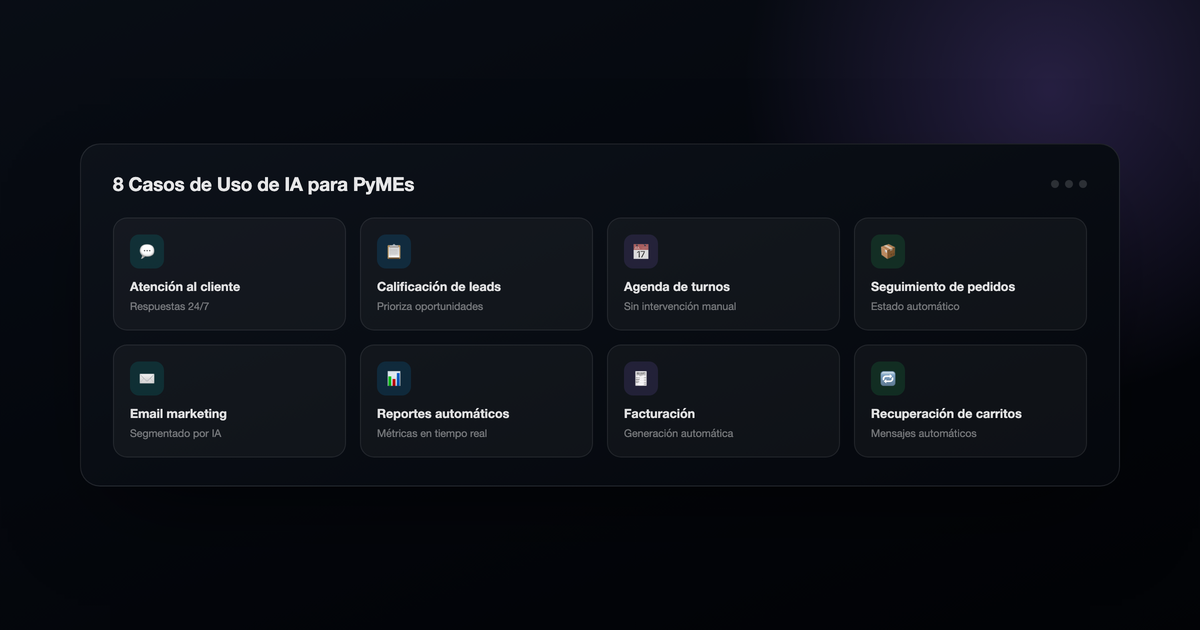
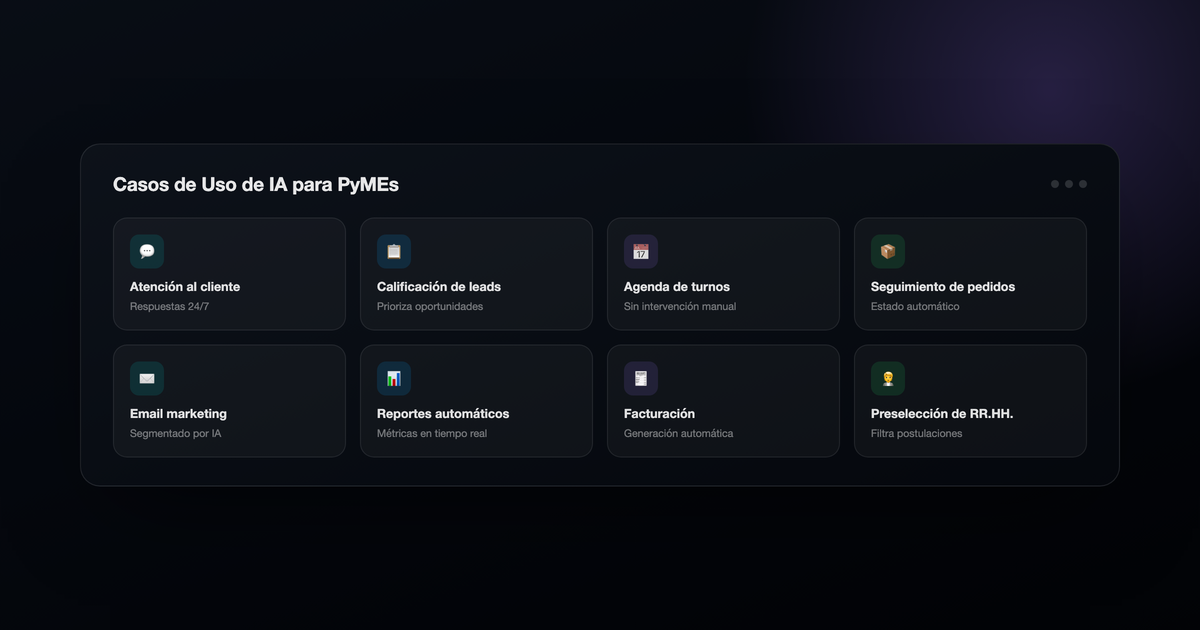
Rewrite the PyMEs automation post into a comprehensive, linked pillar piece
Replaced the flat 8-item list with 13 use cases organized into five
business-area sections (sales, customer service, operations, marketing,
HR), added a definition-first opener and pricing/no-code-vs-custom
sections, expanded the FAQ from 4 to 7 questions, and linked out to the
specific solutions and case studies (ALORA CRM, LIDIA, Autodux) that
back up each claim instead of leaving them abstract. Kept the same slug
and topic rather than publishing a separate post, to avoid competing
with itself for the same searches.

Updated the cover image mockup, which still said "8 Casos de Uso," and
added the post to llms.txt alongside the other flagship articles.

Changed region(s): [[0.0925, 0.2714, 0.3392, 0.3016], [0.7092, 0.6333, 0.8633, 0.6937]]

diff --git a/src/lib/blog-data.ts b/src/lib/blog-data.ts
@@ -1170,20 +1170,24 @@ Want to see how it would work in a clinic like yours? At ALORA we can run a live
   {
     slug: "automatizacion-ia-pymes-casos",
     title: {
-      es: "Automatización con IA para PyMEs: 8 casos de uso reales con impacto medible",
-      en: "AI automation for small businesses: 8 real use cases with measurable impact",
+      es: "Casos de uso de IA en PyMEs: automatización real por área de negocio, con resultados medibles",
+      en: "AI Use Cases for Small Businesses: Real Automation by Business Area, with Measurable Results",
     },
     excerpt: {
-      es: "Casos de uso concretos de automatización con inteligencia artificial para pequeñas y medianas empresas: qué procesos automatizar primero, qué herramientas usar y qué resultados esperar sin ser técnico.",
-      en: "Concrete AI automation use cases for small and medium businesses: which processes to automate first, which tools to use, and what results to expect — no technical background required.",
+      es: "Más de 12 casos de uso reales de inteligencia artificial en PyMEs, organizados por área de negocio: ventas, atención al cliente, operaciones, marketing y RR.HH. Qué automatizar primero, con qué herramientas y qué resultados esperar.",
+      en: "12+ real AI use cases for small businesses, organized by business area: sales, customer service, operations, marketing and HR. What to automate first, which tools to use, and what results to expect.",
     },
-    date: "2026-05-22",
+    date: "2026-07-18",
     category: { es: "Automatización", en: "Automation" },
-    readTime: 9,
+    readTime: 14,
     image: "/images/blog/automatizacion-ia-pymes-casos.png",
-    relatedSlugs: ["automatizacion-empresas-make", "ia-automatizacion-negocios", "mi-empresa-necesita-inteligencia-artificial"],
+    relatedSlugs: ["automatizacion-empresas-make", "que-es-un-crm-y-por-que-lo-necesita-tu-empresa", "mi-empresa-necesita-inteligencia-artificial"],
     content: {
       es: `
+## ¿Qué es la inteligencia artificial aplicada a una PyME?
+
+Aplicar IA en una PyME significa usar herramientas que leen, deciden y actúan sobre información real del negocio sin que una persona tenga que hacerlo a mano: calificar un lead, responder una consulta, cargar una factura o recordar un turno. No es un proyecto de innovación aislado. Es reemplazar tareas repetitivas por flujos que corren solos, las 24 horas, mientras tu equipo se dedica a lo que realmente requiere criterio humano.
+
 ## El problema que frena a las PyMEs para crecer
 
 La mayoría de las PyMEs no tienen un problema de demanda. Tienen un problema de capacidad de respuesta.
@@ -1204,23 +1208,51 @@ Lo que sí necesitás:
 
 Lo que no necesitás: un equipo de IT, saber código ni presupuesto enterprise.
 
-## 8 casos de automatización con resultados medibles
+## Casos de uso de IA en PyMEs, organizados por área de negocio
+
+Estos son los procesos donde la IA genera resultado más rápido en una PyME, agrupados por el área que los sufre. Elegí el tuyo y empezá por ahí — no hace falta automatizar todo a la vez.
+
+### Ventas y captación de leads
 
 1. **Calificación automática de leads.** Cuando un formulario de contacto se completa, una IA evalúa el mensaje, clasifica al lead (interesado, urgente, no calificado) y lo asigna al comercial correcto. Resultado típico: reducción del 40% en el tiempo de respuesta comercial.
 
 2. **Seguimiento automático de presupuestos.** Tras enviar una cotización, un flujo automático envía recordatorios por WhatsApp o email en los días 2, 5 y 10. Resultado típico: aumento del 25% en la tasa de cierre por seguimiento oportuno.
 
-3. **Respuesta automática a consultas frecuentes.** Un agente de IA entrenado con el conocimiento del negocio responde preguntas de precios, disponibilidad y proceso de compra 24/7. Resultado típico: 60-70% de consultas resueltas sin intervención humana.
+3. **Priorización de la base de contactos.** La IA analiza el historial de cada lead (última interacción, tamaño de negocio, urgencia del mensaje) y ordena a quién contactar primero, en vez de repartir el tiempo comercial en partes iguales. Es el mismo principio que usamos para construir [ALORA CRM](/es/casos-de-exito/alora-crm), nuestro propio CRM con pipeline 100% automatizado.
 
-4. **Confirmación y recordatorio de turnos.** El sistema agenda automáticamente, envía confirmación inmediata y recuerda la cita 24 horas antes por WhatsApp. Resultado típico: reducción del 30-40% en ausentismo.
+### Atención al cliente
 
-5. **Extracción de datos de documentos.** Facturas, contratos o presupuestos de proveedores se procesan automáticamente: la IA extrae los datos clave y los carga en el sistema de gestión. Resultado típico: ahorro de 5-10 horas semanales en carga manual.
+4. **Respuesta automática a consultas frecuentes, 24/7.** Un [agente de IA](/es/soluciones/atencion-cliente-ia) entrenado con el conocimiento del negocio responde preguntas de precios, disponibilidad y proceso de compra en cualquier horario. Resultado típico: 60-70% de consultas resueltas sin intervención humana.
 
-6. **Gestión asistida de redes sociales.** El sistema monitorea menciones, clasifica comentarios y genera borradores de respuesta para que un humano solo apruebe. Resultado típico: reducción del 50% en el tiempo dedicado a redes.
+5. **Confirmación y recordatorio de turnos.** El sistema agenda automáticamente, envía confirmación inmediata y recuerda la cita 24 horas antes por WhatsApp. Resultado típico: reducción del 30-40% en ausentismo — el mismo mecanismo que usa [LIDIA](/es/casos-de-exito/soy-lidia) en consultorios de salud.
 
-7. **Informes y reportes automáticos.** Cada lunes a las 8 AM llega un resumen automático con métricas clave del negocio extraídas de CRM, ventas y atención. Resultado típico: decisiones basadas en datos sin horas de preparación manual.
+6. **Escalamiento inteligente a un humano.** Cuando la IA detecta que la consulta requiere criterio (un reclamo, una negociación, un caso atípico) deriva automáticamente a una persona con todo el contexto de la conversación ya cargado, en vez de hacer que el cliente repita todo desde cero.
 
-8. **Onboarding automático de nuevos clientes.** Cuando un cliente firma o compra, el sistema activa una secuencia automática: bienvenida, documentación necesaria, primer contacto de seguimiento. Resultado típico: experiencia consistente sin depender de que alguien lo recuerde.
+### Operaciones y administración
+
+7. **Extracción de datos de documentos.** Facturas, contratos o presupuestos de proveedores se procesan automáticamente: la IA extrae los datos clave y los carga en el sistema de gestión. Resultado típico: ahorro de 5-10 horas semanales en carga manual.
+
+8. **Informes y reportes automáticos.** Cada lunes a las 8 AM llega un resumen automático con métricas clave del negocio extraídas de CRM, ventas y atención. Resultado típico: decisiones basadas en datos sin horas de preparación manual.
+
+9. **Control de stock y alertas de reposición.** La IA cruza ventas históricas con el stock actual y avisa cuándo reponer, antes de quedarse sin producto — sin depender de que alguien revise una planilla todos los días.
+
+### Marketing y contenido
+
+10. **Gestión asistida de redes sociales.** El sistema monitorea menciones, clasifica comentarios y genera borradores de respuesta para que un humano solo apruebe. Resultado típico: reducción del 50% en el tiempo dedicado a redes.
+
+11. **Primeras versiones de contenido.** La IA arma un borrador de posteos, newsletters o descripciones de producto a partir de la guía de marca, y una persona edita y aprueba. Reduce el tiempo de arranque — no reemplaza la mirada editorial.
+
+### Recursos Humanos
+
+12. **Preselección de candidatos.** La IA filtra postulaciones según los requisitos del puesto y arma un resumen comparativo, para que RR.HH. entreviste solo a quienes tienen sentido para la búsqueda.
+
+13. **Onboarding automático.** Cuando un cliente firma, compra, o un empleado se suma al equipo, el sistema activa una secuencia automática: bienvenida, documentación necesaria, primer contacto de seguimiento. Resultado típico: una experiencia consistente que no depende de que alguien se acuerde de hacerlo.
+
+## Cuánto cuesta automatizar un proceso con IA
+
+No hay un número único — depende de tres variables: cuántos sistemas hay que conectar, si el flujo es lineal o tiene ramificaciones y decisiones, y si alcanza con una herramienta no-code o hace falta lógica a medida. Una automatización simple (un formulario que dispara un mensaje y una notificación) se resuelve en días. Un flujo con IA que clasifica, decide y actualiza varios sistemas a la vez lleva semanas de configuración y ajuste.
+
+La forma más rápida de saberlo es mirar el proceso concreto, no una tabla de precios genérica — por eso en ALORA arrancamos siempre con un diagnóstico gratuito antes de cotizar cualquier cosa.
 
 ## Las herramientas que más se usan en PyMEs
 
@@ -1230,22 +1262,34 @@ Lo que no necesitás: un equipo de IT, saber código ni presupuesto enterprise.
 
 Las tres se conectan con WhatsApp Business API, Gmail, Google Sheets, HubSpot, Salesforce, Notion, Slack y cientos de otras aplicaciones.
 
-## El error más común: automatizar sin documentar primero
+## No-code vs. desarrollo a medida: cuándo cada uno alcanza
 
-Antes de automatizar un proceso, documentalo. Si no podés describir exactamente qué decisión se toma en cada paso, ninguna herramienta de IA podrá replicarlo. La IA ejecuta bien — pero necesita instrucciones claras.
+Make, n8n y Zapier resuelven la mayoría de los casos de este artículo. Pero hay un punto en el que dejan de alcanzar: cuando el proceso necesita lógica propia, una base de datos a medida, o un panel donde tu equipo gestione todo sin depender de una herramienta externa. Ahí tiene sentido pasar a [desarrollo de software a medida](/es/soluciones/desarrollo-software) o una [aplicación web propia](/es/soluciones/aplicaciones-web) — como en [Autodux](/es/casos-de-exito/autodux), donde la gestión de publicaciones y el contacto por WhatsApp necesitaban vivir dentro de una plataforma propia, no de un flujo conectado por fuera.
 
-El proceso correcto:
+## Errores comunes al automatizar (y cómo evitarlos)
 
-1. Elegir el proceso más repetitivo y costoso en tiempo.
+**Automatizar sin documentar primero.** Si no podés describir exactamente qué decisión se toma en cada paso del proceso, ninguna herramienta de IA podrá replicarlo. La IA ejecuta bien — pero necesita instrucciones claras.
+
+**Automatizar un proceso que ya está roto.** Automatizar el caos solo lo hace más rápido. Primero se ordena el proceso, después se automatiza.
+
+**No dejar a nadie a cargo del monitoreo.** Todo flujo automático necesita un dueño humano que revise que sigue funcionando. Sin monitoreo, un error silencioso puede pasar semanas sin detectarse.
+
+## Cómo empezar, paso a paso
+
+1. Elegir el proceso más repetitivo y costoso en tiempo — no necesariamente el más importante del negocio.
 2. Documentar el flujo actual: qué entra, qué sale, qué decisiones se toman.
 3. Identificar qué parte requiere criterio humano y qué parte es siempre igual.
 4. Automatizar la parte predecible primero.
 5. Medir resultados durante 30 días.
 6. Expandir a otros procesos.
 
-¿Querés saber qué procesos de tu negocio podés automatizar primero? En ALORA hacemos el diagnóstico inicial sin costo. Revisamos tu operación, identificamos los procesos con mayor potencial de [automatización](/es/soluciones/aplicaciones-web) y te mostramos exactamente qué se puede hacer, con qué herramientas y en cuánto tiempo. [Agendá una llamada gratuita](/es/contacto) de 20 minutos.
+¿Querés saber qué procesos de tu negocio podés automatizar primero? En ALORA hacemos el diagnóstico inicial sin costo. Revisamos tu operación, identificamos los procesos con mayor potencial de [automatización](/es/soluciones/aplicaciones-web) y te mostramos exactamente qué se puede hacer, con qué herramientas y en cuánto tiempo — y si el proceso lo pide, también lo construimos a medida. [Agendá una llamada gratuita](/es/contacto) de 20 minutos.
       `,
       en: `
+## What does "AI for small businesses" actually mean?
+
+Applying AI in a small business means using tools that read, decide and act on real business information without a person doing it by hand: scoring a lead, answering an inquiry, processing an invoice, or remembering an appointment. It isn't an isolated innovation project. It's replacing repetitive tasks with flows that run on their own, around the clock, while your team focuses on what actually requires human judgment.
+
 ## The problem holding small businesses back from growing
 
 Most small businesses don't have a demand problem. They have a response-capacity problem.
@@ -1266,23 +1310,51 @@ What you do need:
 
 What you don't need: an IT team, coding knowledge, or an enterprise budget.
 
-## 8 automation cases with measurable results
+## AI use cases for small businesses, by business area
+
+These are the processes where AI delivers results fastest in a small business, grouped by the area that feels the pain. Pick yours and start there — you don't need to automate everything at once.
+
+### Sales and lead generation
 
 1. **Automatic lead scoring.** When a contact form is submitted, an AI evaluates the message, classifies the lead (interested, urgent, unqualified), and assigns it to the right salesperson. Typical result: 40% reduction in sales response time.
 
 2. **Automatic quote follow-up.** After sending a quote, an automated flow sends reminders via WhatsApp or email on days 2, 5, and 10. Typical result: 25% increase in close rate thanks to timely follow-up.
 
-3. **Automatic responses to frequent inquiries.** An AI agent trained on the business's knowledge answers questions about pricing, availability, and the purchase process 24/7. Typical result: 60-70% of inquiries resolved without human intervention.
+3. **Prioritizing your contact base.** AI analyzes each lead's history (last interaction, business size, urgency of the message) and ranks who to contact first, instead of splitting sales time evenly. It's the same principle behind [ALORA CRM](/en/casos-de-exito/alora-crm), our own CRM with a fully automated pipeline.
 
-4. **Appointment confirmation and reminders.** The system schedules automatically, sends immediate confirmation, and reminds the patient or customer 24 hours before via WhatsApp. Typical result: 30-40% reduction in no-shows.
+### Customer service
 
-5. **Document data extraction.** Invoices, contracts, or supplier quotes are processed automatically: the AI extracts key data and loads it into the management system. Typical result: 5-10 hours saved weekly on manual data entry.
+4. **Automatic responses to frequent inquiries, 24/7.** An [AI agent](/en/soluciones/atencion-cliente-ia) trained on the business's knowledge answers questions about pricing, availability, and the purchase process at any hour. Typical result: 60-70% of inquiries resolved without human intervention.
 
-6. **Assisted social media management.** The system monitors mentions, classifies comments, and generates draft responses for a human to simply approve. Typical result: 50% reduction in time spent on social media.
+5. **Appointment confirmation and reminders.** The system schedules automatically, sends immediate confirmation, and reminds the customer 24 hours before via WhatsApp. Typical result: 30-40% reduction in no-shows — the same mechanism [LIDIA](/en/casos-de-exito/soy-lidia) uses in health clinics.
 
-7. **Automatic reports.** Every Monday at 8 AM, an automatic summary arrives with key business metrics pulled from CRM, sales, and support data. Typical result: data-driven decisions without hours of manual preparation.
+6. **Smart hand-off to a human.** When the AI detects the inquiry needs judgment (a complaint, a negotiation, an edge case), it automatically routes it to a person with the full conversation context already loaded, instead of making the customer start over.
 
-8. **Automatic new customer onboarding.** When a customer signs or purchases, the system triggers an automatic sequence: welcome message, required documentation, first follow-up contact. Typical result: a consistent experience that doesn't depend on someone remembering to do it.
+### Operations and admin
+
+7. **Document data extraction.** Invoices, contracts, or supplier quotes are processed automatically: the AI extracts key data and loads it into the management system. Typical result: 5-10 hours saved weekly on manual data entry.
+
+8. **Automatic reports.** Every Monday at 8 AM, an automatic summary arrives with key business metrics pulled from CRM, sales, and support data. Typical result: data-driven decisions without hours of manual preparation.
+
+9. **Stock control and restock alerts.** AI cross-references sales history with current stock and flags when to reorder, before you run out — without depending on someone checking a spreadsheet every day.
+
+### Marketing and content
+
+10. **Assisted social media management.** The system monitors mentions, classifies comments, and generates draft responses for a human to simply approve. Typical result: 50% reduction in time spent on social media.
+
+11. **First drafts of content.** AI drafts social posts, newsletters, or product descriptions from a brand guide, and a person edits and approves. It cuts down on start-up time — it doesn't replace editorial judgment.
+
+### Human resources
+
+12. **Candidate pre-screening.** AI filters applications against the role's requirements and builds a comparison summary, so HR only interviews candidates who actually fit.
+
+13. **Automatic onboarding.** When a customer signs, buys, or a new employee joins the team, the system triggers an automatic sequence: welcome message, required documentation, first follow-up contact. Typical result: a consistent experience that doesn't depend on someone remembering to do it.
+
+## How much does it cost to automate a process with AI?
+
+There's no single number — it depends on three variables: how many systems need to connect, whether the flow is linear or has branching decisions, and whether a no-code tool is enough or the process needs custom logic. A simple automation (a form that triggers a message and a notification) can be done in days. A flow where AI classifies, decides, and updates several systems at once takes weeks of setup and tuning.
+
+The fastest way to know is to look at the actual process, not a generic price table — which is why at ALORA we always start with a free assessment before quoting anything.
 
 ## The tools most used by small businesses
 
@@ -1292,20 +1364,28 @@ What you don't need: an IT team, coding knowledge, or an enterprise budget.
 
 All three connect with WhatsApp Business API, Gmail, Google Sheets, HubSpot, Salesforce, Notion, Slack, and hundreds of other applications.
 
-## The most common mistake: automating without documenting first
+## No-code vs. custom development: when each one makes sense
 
-Before automating a process, document it. If you can't describe exactly what decision gets made at each step, no AI tool will be able to replicate it. AI executes well — but it needs clear instructions.
+Make, n8n, and Zapier solve most of the cases in this article. But there's a point where they stop being enough: when the process needs its own logic, a custom database, or a panel where your team manages everything without depending on an external tool. That's when it makes sense to move to [custom software development](/en/soluciones/desarrollo-software) or a [proprietary web application](/en/soluciones/aplicaciones-web) — like [Autodux](/en/casos-de-exito/autodux), where managing listings and WhatsApp contact needed to live inside its own platform, not a flow connected from outside.
 
-The correct process:
+## Common automation mistakes (and how to avoid them)
 
-1. Choose the most repetitive, time-costly process.
+**Automating without documenting first.** If you can't describe exactly what decision gets made at each step of the process, no AI tool will be able to replicate it. AI executes well — but it needs clear instructions.
+
+**Automating a process that's already broken.** Automating chaos just makes it faster. Fix the process first, then automate it.
+
+**Not putting anyone in charge of monitoring.** Every automated flow needs a human owner who checks it's still working. Without monitoring, a silent error can go undetected for weeks.
+
+## How to get started, step by step
+
+1. Choose the most repetitive, time-costly process — not necessarily the most important one to the business.
 2. Document the current flow: what comes in, what goes out, what decisions get made.
 3. Identify which part requires human judgment and which part is always the same.
 4. Automate the predictable part first.
 5. Measure results for 30 days.
 6. Expand to other processes.
 
-Want to know which processes in your business you could automate first? At ALORA we do the initial assessment at no cost. We review your operation, identify the processes with the highest [automation](/en/soluciones/aplicaciones-web) potential, and show you exactly what can be done, with which tools, and in how much time. [Book a free 20-minute call](/en/contacto).
+Want to know which processes in your business you could automate first? At ALORA we do the initial assessment at no cost. We review your operation, identify the processes with the highest [automation](/en/soluciones/aplicaciones-web) potential, and show you exactly what can be done, with which tools, and in how much time — and if the process calls for it, we build it custom too. [Book a free 20-minute call](/en/contacto).
       `,
     },
     faq: {
@@ -1314,12 +1394,18 @@ Want to know which processes in your business you could automate first? At ALORA
         { q: "¿Cuánto tiempo tarda en implementarse una automatización?", a: "Una automatización básica (seguimiento de leads, respuesta automática) puede configurarse en 1-2 semanas. Un sistema completo con múltiples flujos y entrenamiento de IA lleva 4 a 8 semanas." },
         { q: "¿Necesito saber programar?", a: "No. Herramientas como Make.com y Zapier son visuales y no requieren código. Sin embargo, para implementaciones más complejas o integraciones no estándar, contar con un especialista acelera el proceso y evita errores costosos." },
         { q: "¿Qué pasa si un flujo automático falla?", a: "Siempre hay que tener monitoreo y alertas configuradas. Los flujos bien diseñados incluyen manejo de errores: si algo falla, el sistema notifica al responsable en lugar de perder la información silenciosamente." },
+        { q: "¿Por dónde tengo que empezar si nunca automaticé nada?", a: "Por el proceso que más tiempo le quita a tu equipo y que sigue siempre la misma lógica — no necesariamente por el más importante del negocio, sino por el más repetitivo." },
+        { q: "¿La IA necesita mis datos para funcionar? ¿Es seguro?", a: "Sí, trabaja sobre información real del negocio: leads, turnos, documentos. Por eso conviene elegir herramientas con buenas prácticas de seguridad y, si el volumen o la sensibilidad del dato lo justifica, considerar una implementación propia en vez de una herramienta genérica." },
+        { q: "¿Cuándo conviene no-code y cuándo desarrollo a medida?", a: "No-code alcanza para conectar herramientas existentes con flujos simples. El desarrollo a medida tiene sentido cuando el proceso necesita lógica propia, un panel de gestión, o dejar de depender de una herramienta externa." },
       ],
       en: [
         { q: "Does AI automation replace employees?", a: "In most small-business cases, it doesn't replace — it redistributes. Employees stop doing repetitive tasks and can focus on higher-value work: sales, creativity, personalized attention for key customers." },
         { q: "How long does it take to implement an automation?", a: "A basic automation (lead follow-up, automatic responses) can be set up in 1-2 weeks. A complete system with multiple flows and AI training takes 4 to 8 weeks." },
         { q: "Do I need to know how to code?", a: "No. Tools like Make.com and Zapier are visual and require no code. However, for more complex implementations or non-standard integrations, having a specialist speeds up the process and avoids costly mistakes." },
         { q: "What happens if an automated flow fails?", a: "You should always have monitoring and alerts configured. Well-designed flows include error handling: if something fails, the system notifies the person responsible instead of silently losing the information." },
+        { q: "Where should I start if I've never automated anything?", a: "With the process that takes up the most of your team's time and always follows the same logic — not necessarily the most important process in the business, but the most repetitive one." },
+        { q: "Does AI need my data to work? Is that safe?", a: "Yes, it works on real business information: leads, appointments, documents. That's why it's worth choosing tools with solid security practices and, if the volume or sensitivity of the data warrants it, considering a custom implementation instead of a generic tool." },
+        { q: "When does no-code make sense, and when does custom development?", a: "No-code is enough to connect existing tools with simple flows. Custom development makes sense when the process needs its own logic, a management panel, or to stop depending on an external tool." },
       ],
     },
   },